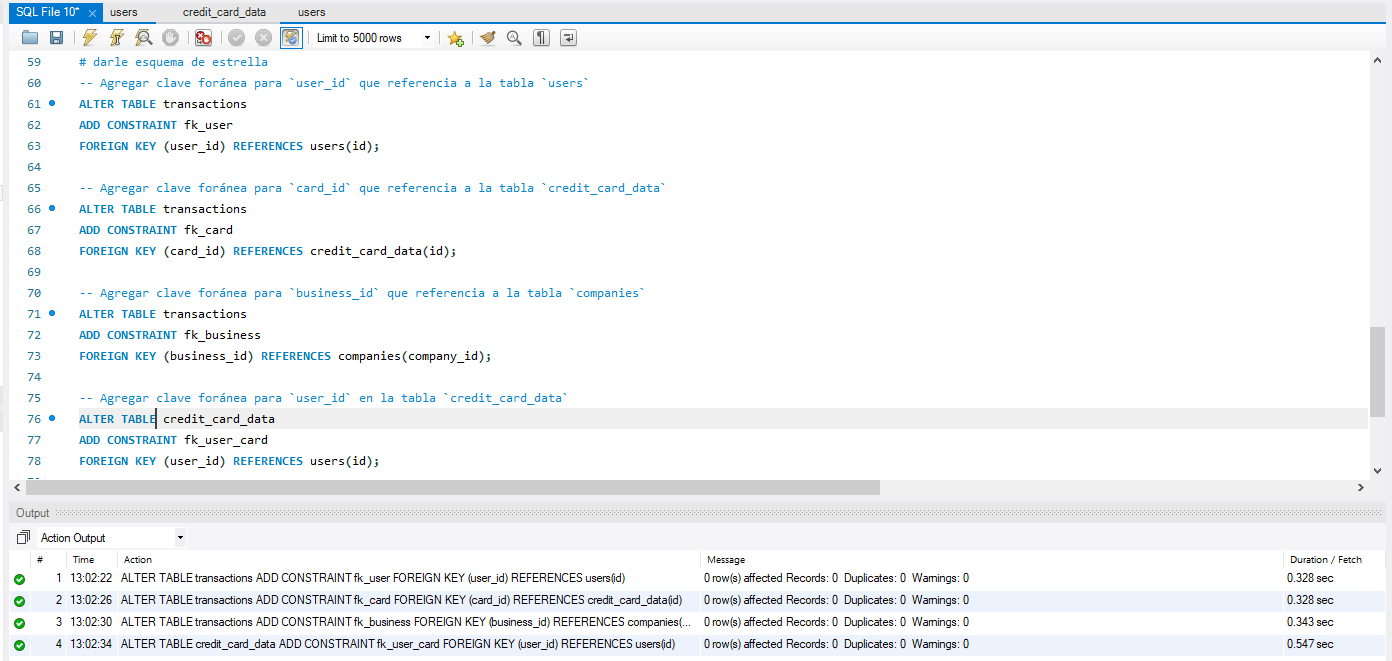
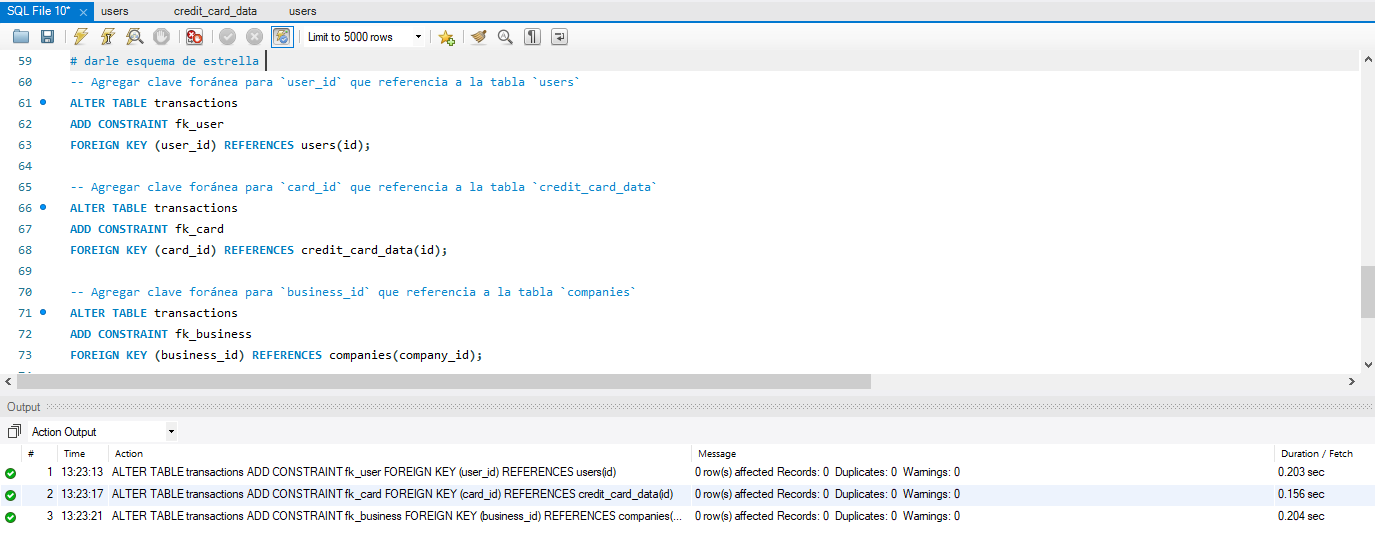
180902

diff --git a/sprint4/sprint4.md b/sprint4/sprint4.md
@@ -136,10 +136,6 @@ ALTER TABLE transactions
 ADD CONSTRAINT fk_business
 FOREIGN KEY (business_id) REFERENCES companies(company_id);
 
--- Agregar clave foránea para `user_id` en la tabla `credit_card_data`
-ALTER TABLE credit_card_data
-ADD CONSTRAINT fk_user_card
-FOREIGN KEY (user_id) REFERENCES users(id);
 
 ```
 
